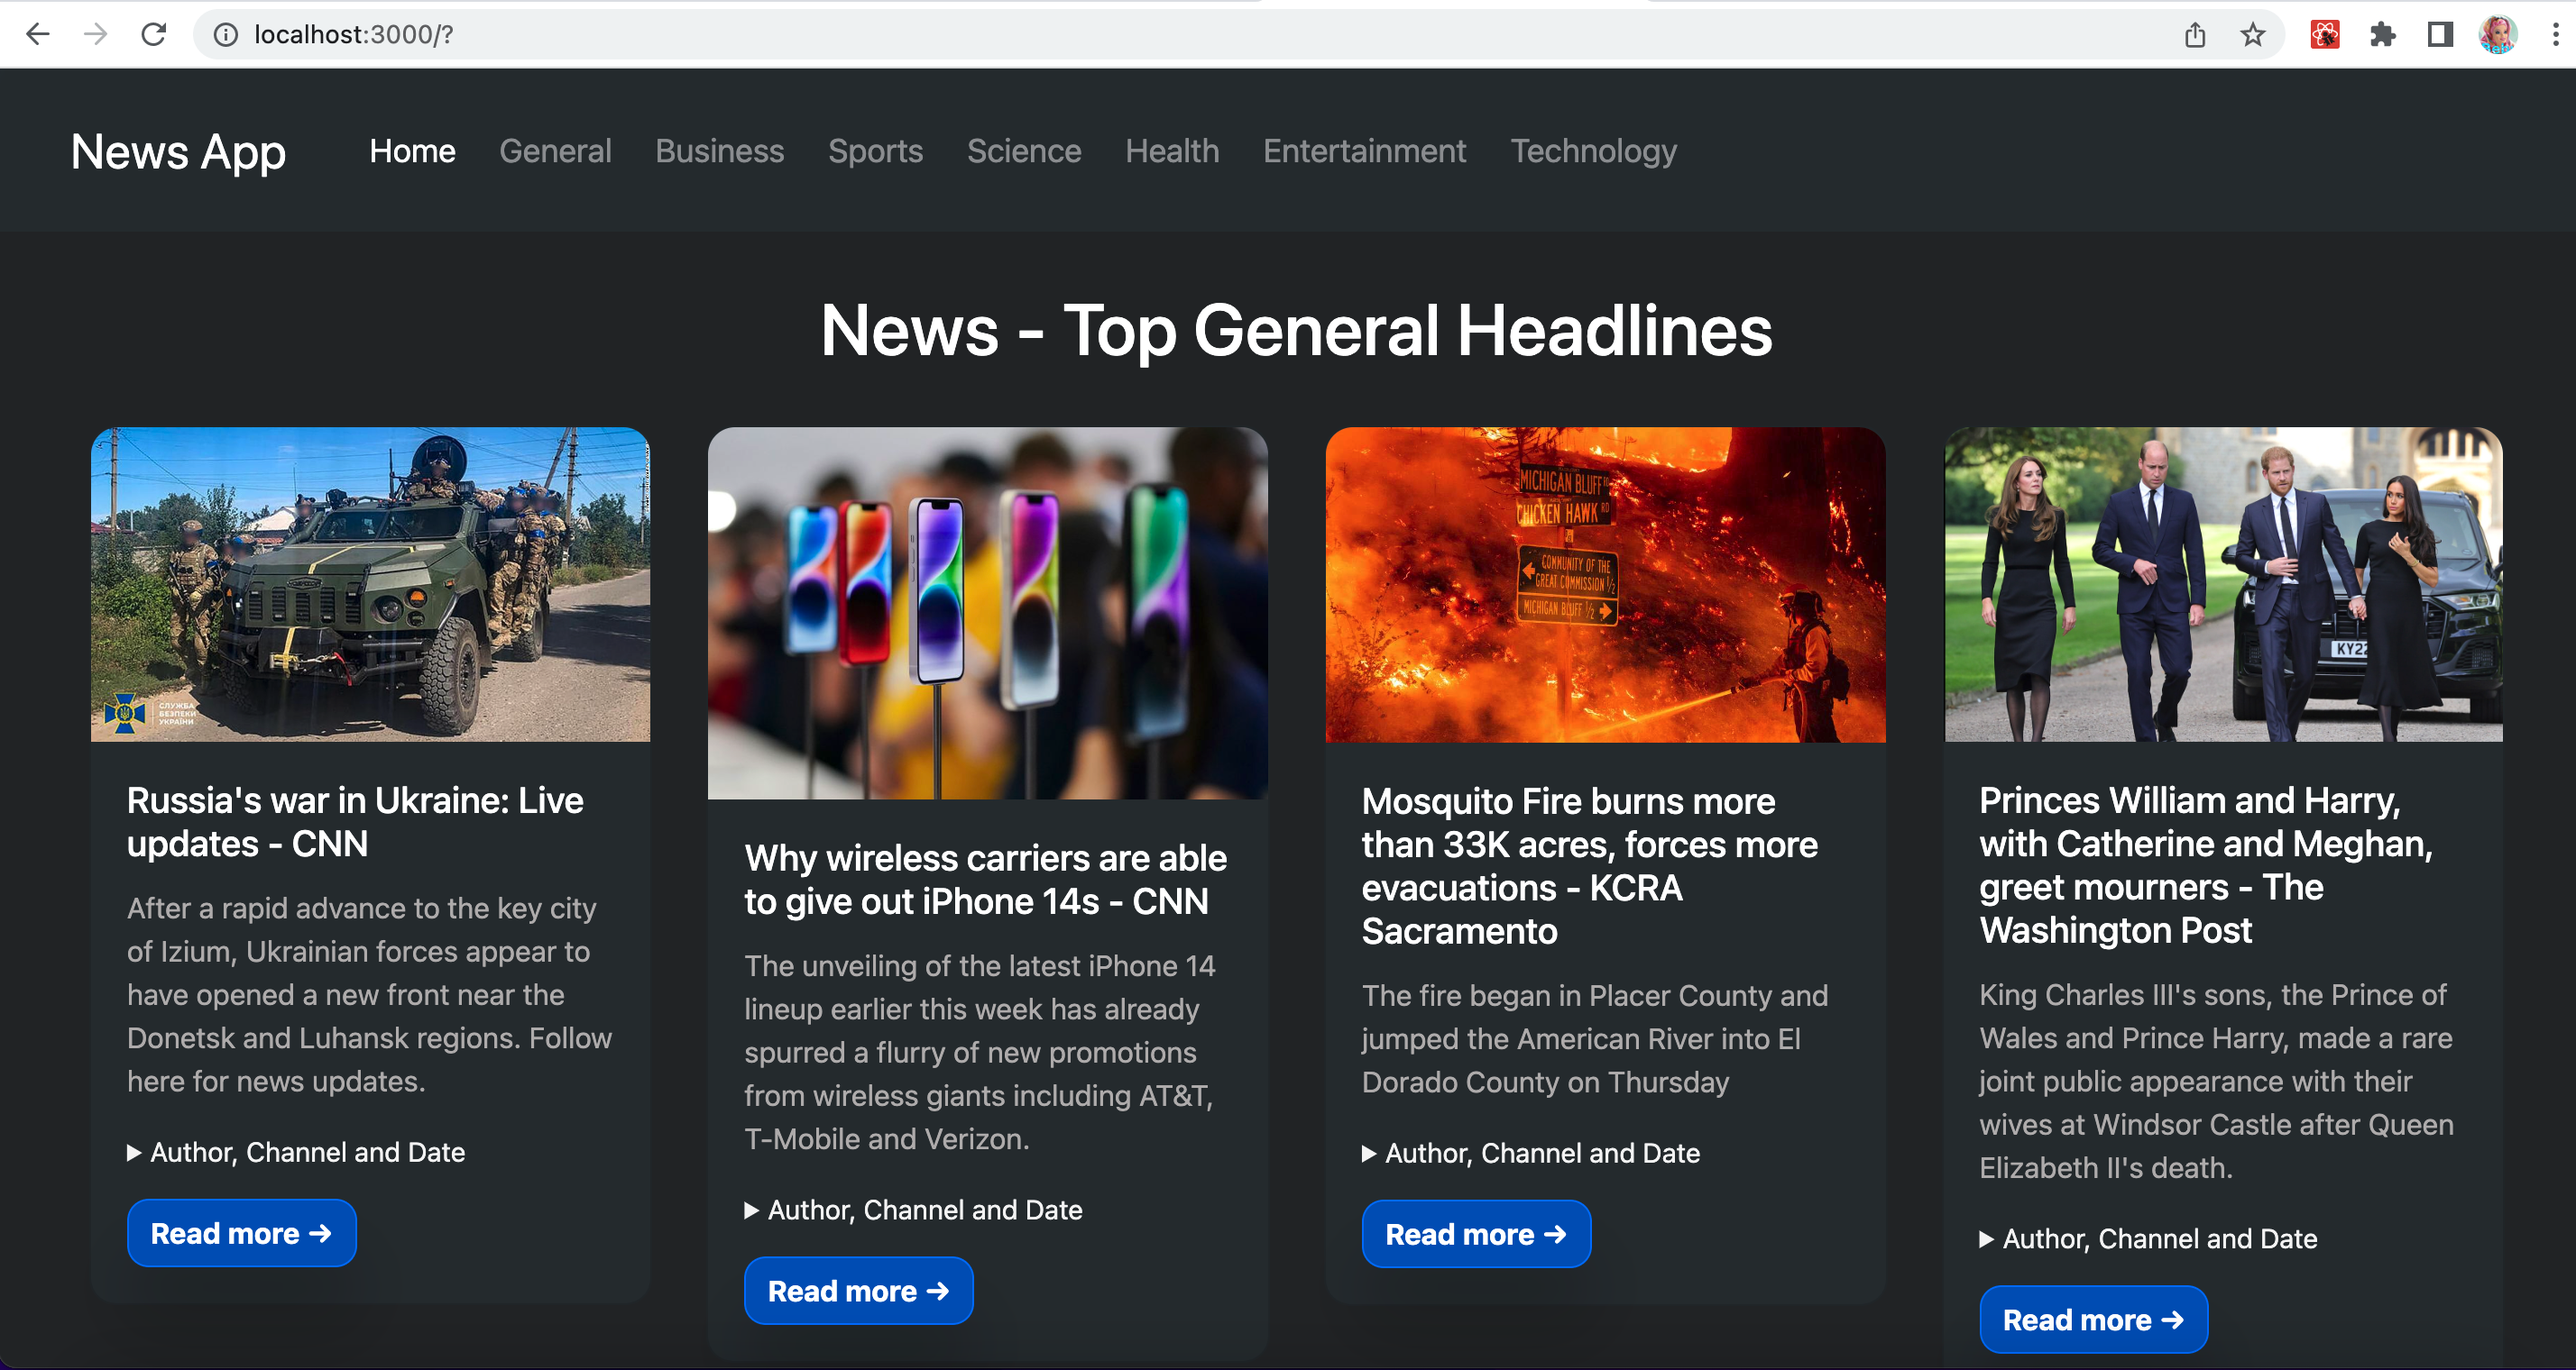
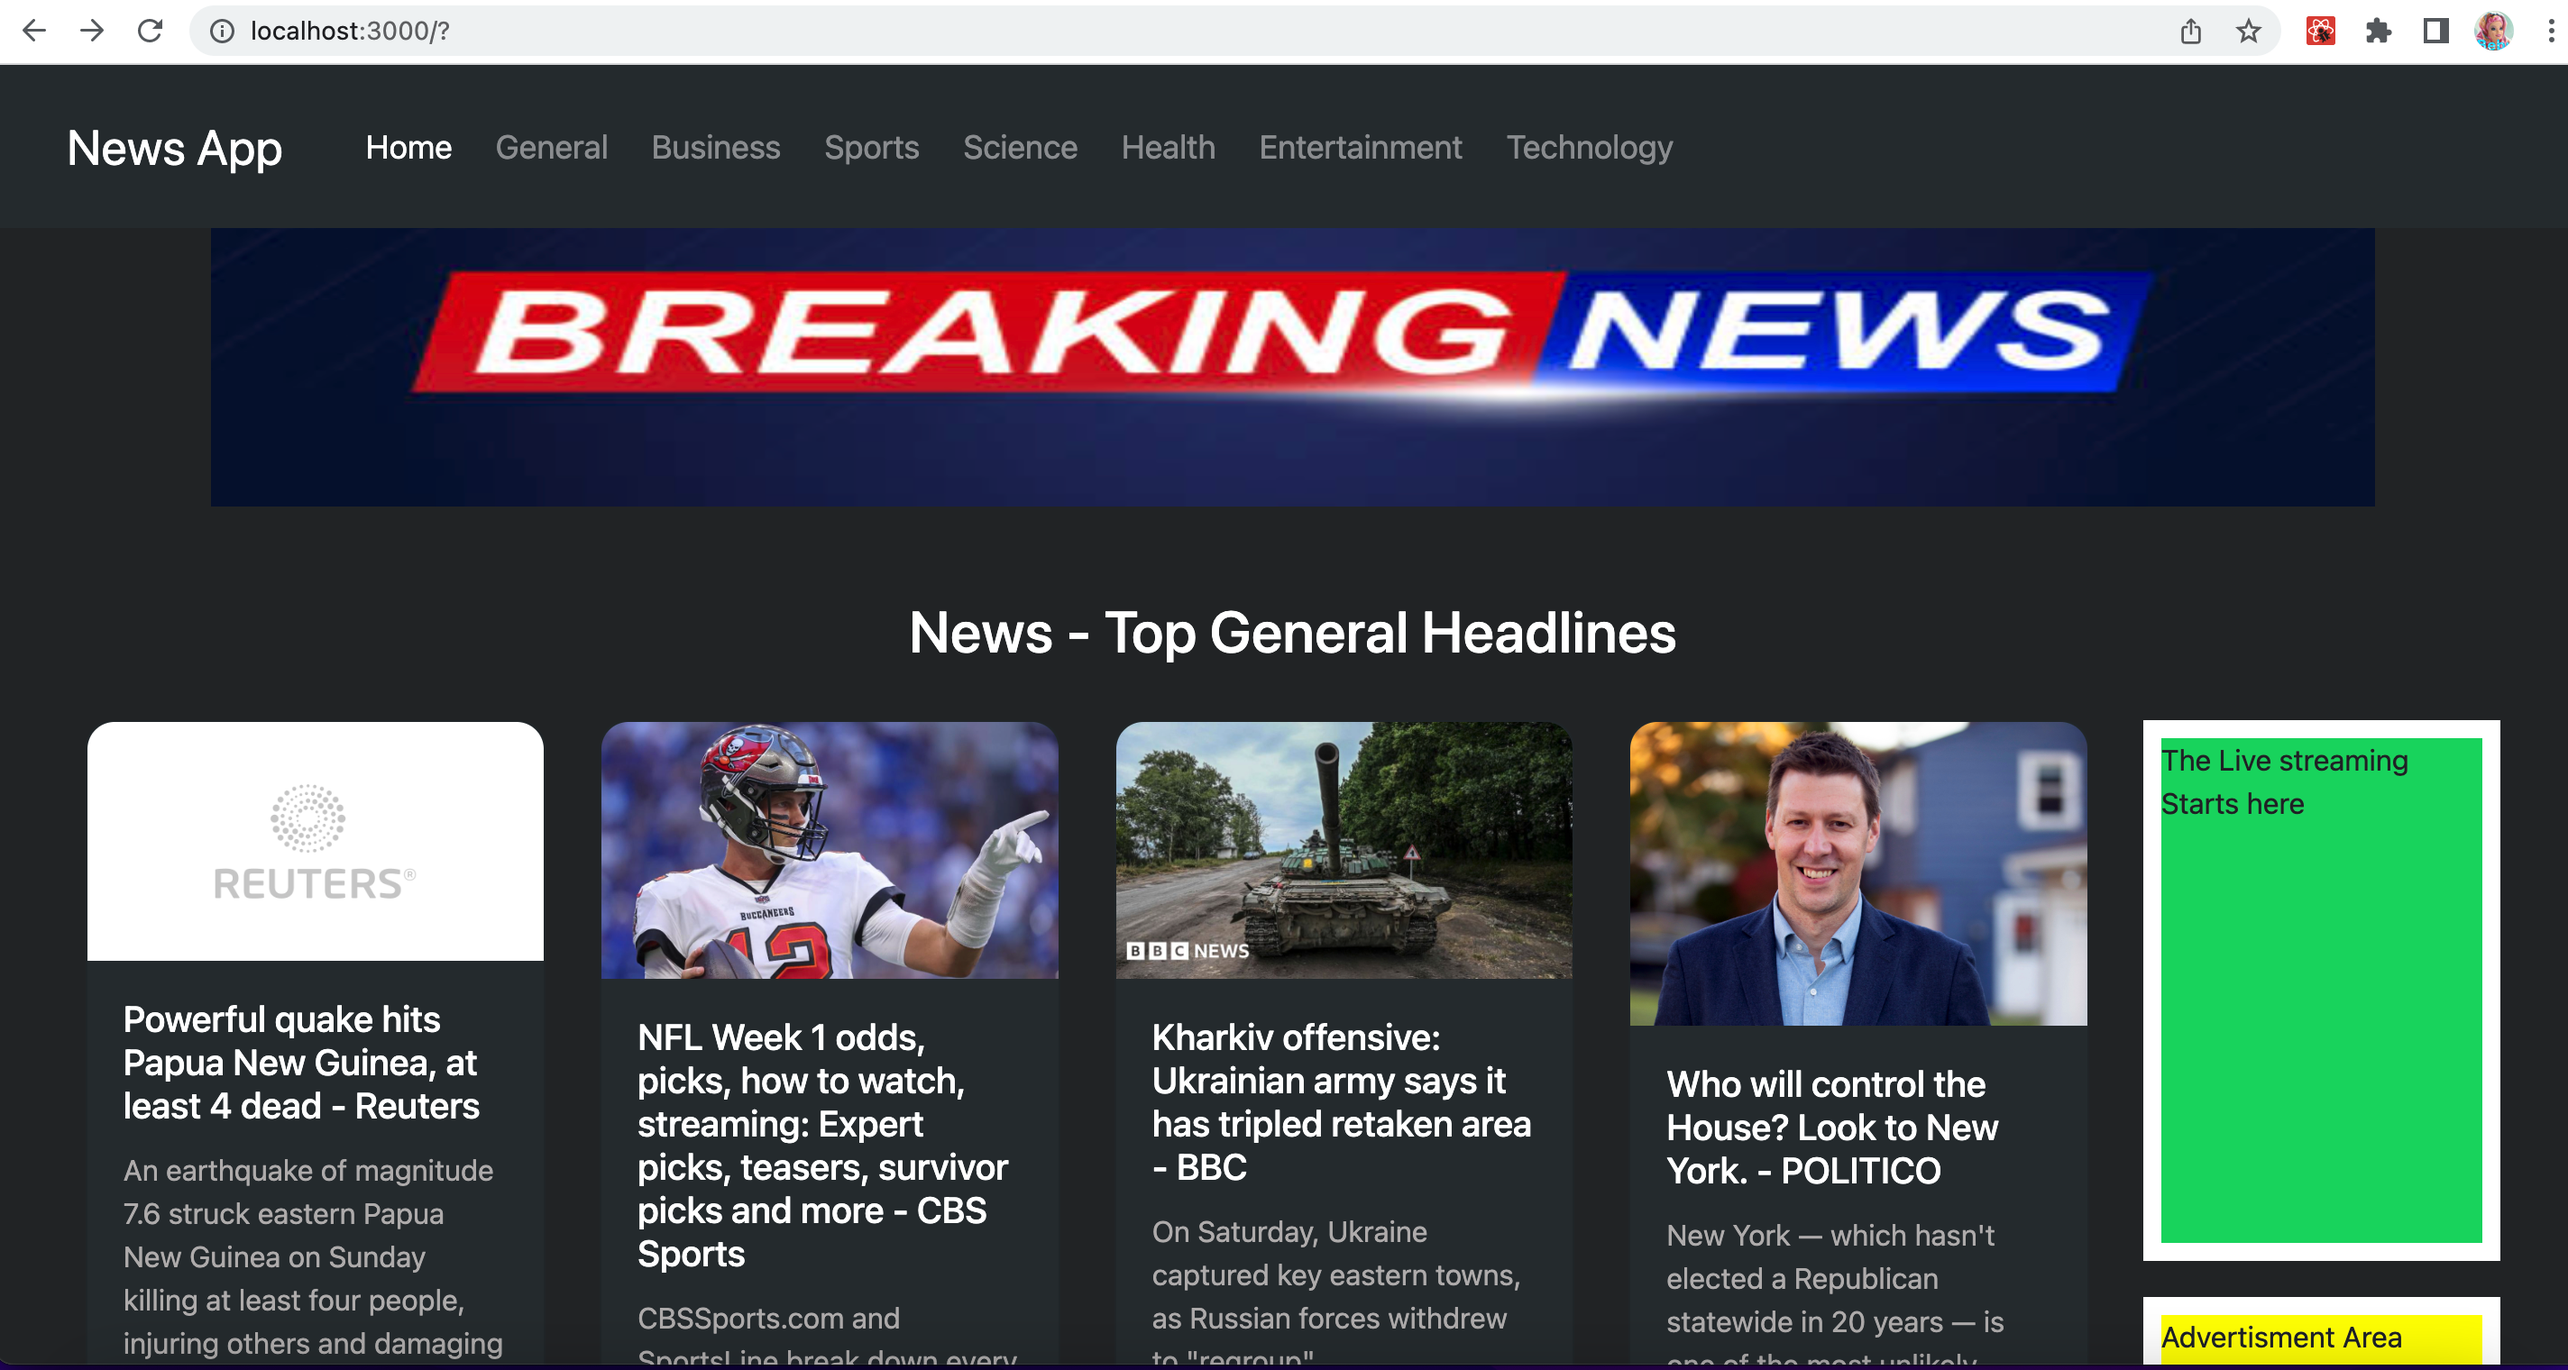
revise

diff --git a/NewsAustraliaTask/src/components/NewsMain/NewsMain.js b/NewsAustraliaTask/src/components/NewsMain/NewsMain.js
@@ -10,6 +10,8 @@ import { Row, Col } from "react-bootstrap";
 import { Header, Container, card } from "./index";
 import { endpointPath } from "../../config/api";
 import { header } from "../../config/config";
+import HeadNews from "./HeadNews";
+import SideBarNews from "./SideBarNews";
 
 
 function NewsMain(props) {
@@ -81,6 +83,7 @@ function NewsMain(props) {
 
   return (
     <>
+      <HeadNews />
       <Header>
         {header(capitaLize(props.category))}
       </Header>
@@ -93,6 +96,13 @@ function NewsMain(props) {
       >
         <Container>
           <Row>
+            <Col
+            sm={12}
+            md={10}
+            lg={10}
+            xl={10}
+            >
+            <Row>
             {articles.map((element,num) => {
               return (
                 <Col
@@ -154,6 +164,19 @@ function NewsMain(props) {
                 </Col>
               );
             })}
+            </Row>
+            </Col>
+            <Col
+            sm={12}
+            md={2}
+            lg={2}
+            xl={2}
+            >
+            <div>
+            <SideBarNews />
+              </div>
+            </Col>
+            
           </Row>
         </Container>
       </InfiniteScroll>

diff --git a/NewsAustraliaTask/src/components/NewsMain/index.js b/NewsAustraliaTask/src/components/NewsMain/index.js
@@ -1,9 +1,36 @@
 import styled from "styled-components";
 
+export const NewsSideBarCol = styled.div`
+    text-align: left;
+    height: 300px;
+    margin-top: 10px;
+    margin-bottom: 20px;
+    background: #20d568;
+	border: 10px solid #ffffff;
+`
 
-export const Header = styled.h1`
+export const NewsSideBarCol1 = styled.div`
+    text-align: left;
+    height: 200px;
+    margin-top: 20px;
+    margin-bottom: 20px;
+    background: yellow;
+    border: 10px solid #ffffff;
+    display:block;
+    width:100%;
+`
+
+export const HeaderNews = styled.h1`
     text-align: center;
     margin-top: 120px;
+    color: #fff;
+    margin-bottom: 20px;
+    margin-color: white;
+`
+
+export const Header = styled.h2`
+    text-align: center;
+    margin-top: 50px;
     color: #fff;
     margin-bottom: 20px;
 `

diff --git a/NewsAustraliaTask/src/components/NewsMain/SideBarNews.js b/NewsAustraliaTask/src/components/NewsMain/SideBarNews.js
@@ -1,0 +1,16 @@
+import React from "react"
+import { NewsSideBarCol, NewsSideBarCol1 } from "./index";
+function SideBarNews() {
+  return (
+      <>
+        <NewsSideBarCol>
+            The Live streaming Starts here 
+        </NewsSideBarCol>
+
+        <NewsSideBarCol1>
+            Advertisment Area 
+        </NewsSideBarCol1>
+  </>
+  )
+}
+export default SideBarNews;

diff --git a/NewsAustraliaTask/src/index.css b/NewsAustraliaTask/src/index.css
@@ -3,3 +3,19 @@ body {
   margin: 0;
   font-family: "Inter", sans-serif;
 }
+
+div#banner { 
+  position: absolute; 
+  top: 0; 
+  left: 0; 
+  background-color: #DDEEEE; 
+  width: 100%; 
+  color: #fff;
+}
+div#banner-content { 
+  width: 800px; 
+  margin: 0 auto; 
+  padding: 10px; 
+  border: 1px solid #000;
+  color: #fff;
+}

diff --git a/NewsAustraliaTask/src/components/NewsMain/HeadNews.js b/NewsAustraliaTask/src/components/NewsMain/HeadNews.js
@@ -1,0 +1,12 @@
+import React from "react"
+import { HeaderNews } from "./index";
+import img1 from "../Images/bknews.png";
+
+function HeadNews() {
+  return (
+    <HeaderNews>
+        <img src={img1} alt="news" width="1200" height="200"></img>
+  </HeaderNews>
+  )
+}
+export default HeadNews;
